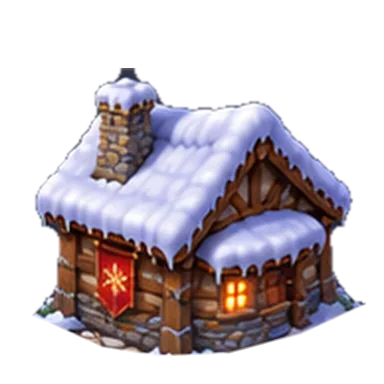
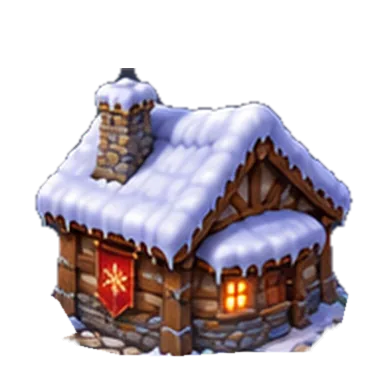
assets(exploration): precise 14-house ground debris cutouts and lantern matte removal
* chore(assets): export canonical building pixels for exact source-preserving cutout audit

* assets: isolate structural snow-house footprint and remove grey backing near lanterns

* ci(assets): run one-time guarded 20-sprite cleanup with checksum gate

* assets(exploration): remove loose ground and grey lantern cutout pixels

* chore(assets): remove temporary source-export and one-shot repair workflows

* docs(exploration): checkpoint scoped semantic cleanup and report unresolved embedded foliage

* tools(exploration): add traced wall-safe ground debris and lantern matte cleanup

* chore(assets): keep single audited cutout script as canonical cleanup authority

* fix(assets): tighten masks to trace exterior only, preserve doors and masonry

* ci(assets): compare and commit exact 14 hand-masked house exports, restore source first

* fix(ci): pin numpy compatible with OpenCV for source-preserving image mask pass

* assets(exploration): precise environment cleanup from approved 14 house sources

* ci(assets): remove one-shot image repair workflow after audited output

* docs(exploration): record rejected 20-view pass and 14 hand-masked replacements

* fix(assets): reconcile six preserved round-house checksums with canonical main source

---------

Changed region(s): [[0.5625, 0.75, 0.9688, 0.9375], [0.0938, 0.75, 0.375, 0.9375], [0.4375, 0.9062, 0.5312, 0.9375]]

diff --git a/scripts/cleanup-house-environment-pixels.py b/scripts/cleanup-house-environment-pixels.py
@@ -1,103 +1,122 @@
 #!/usr/bin/env python3
-"""One-time strict native-house cleanup. Edit alpha only; NEVER redraw roof/walls/windows.
+"""Remove ONLY out-of-building environmental debris from selected winter houses.
 
-Author-supplied chalet and crystal/tent visual identities are frozen.
-Extracts stray snow/stone ground from 20 other snow-house canonical WebPs and
-removes solid grey art contamination behind pagoda lanterns. Source filenames
-and official IDs stay unchanged; all checksum ledgers are rewritten in place.
+Source of truth remains each existing 384x384 WebP/assetId; no redraw, no duplicate
+asset, no WorldDocument/renderer mutation. Manual guard polygons in sprite pixels.
+The user-supplied alpine_timber side view is intentionally never modified.
 """
-from __future__ import annotations
-import hashlib, io, json, sys
+import argparse, io, json, hashlib
 from pathlib import Path
 import numpy as np
+import cv2
 from PIL import Image, ImageDraw
 
 ROOT=Path(__file__).resolve().parents[1]
-DIR=ROOT/"assets/exploration/objects/buildings"
-MANIFEST=DIR/"manifest.snow-houses.v1.json"
-SUMS=DIR/"SHA256SUMS.snow-houses-v1.txt"
-PROTECT="building_house_snow_alpine_timber_2p5d_side_01.webp"
-SKIP={"ice_crystal","elven_crystal","nordic_tent"}
-LINES={
-"front":[(0,306),(45,325),(100,346),(161,355),(230,355),(301,340),(347,318),(384,307)],
-"side":[(0,301),(43,319),(102,346),(158,355),(229,352),(300,333),(363,304),(384,297)],
-"back":[(0,306),(53,323),(117,347),(185,358),(257,356),(324,338),(370,311),(384,305)]}
-PAGODA={
-"side":[(22,318),(55,331),(95,345),(156,354),(224,350),(281,329),(338,301),(370,295)],
-"front":[(22,317),(62,335),(105,342),(153,354),(206,357),(267,348),(326,347),(374,328)],
-"back":[(22,316),(67,329),(125,342),(185,352),(251,359),(310,346),(364,324)]}
-GREY_BACKING={
-"side":[[(47,211),(85,235),(81,307),(49,318)]],
-"front":[[(44,222),(87,249),(77,317),(41,319)],[(295,244),(365,241),(375,352),(320,354)]],
-"back":[[(40,205),(80,228),(79,318),(41,316)],[(329,207),(378,225),(381,331),(333,328)]]}
+BASE=ROOT/"assets/exploration/objects/buildings"
+PROTECTED="building_house_snow_alpine_timber_2p5d_side_01.webp"
+SPEC={
+"east_pagoda":{
+"side":[[(0,290),(35,297),(48,309),(67,314),(78,330),(0,350)],[(350,298),(384,277),(384,367),(331,346)],[(0,375),(384,375),(384,352),(282,352),(230,355),(163,357),(118,356),(67,343),(0,340)]],
+"front":[[(0,291),(44,295),(55,314),(75,328),(0,354)],[(357,307),(384,292),(384,366),(331,347)],[(0,375),(384,375),(384,352),(313,352),(263,354),(207,353),(145,355),(97,354),(63,345),(0,349)]],
+"back":[[(0,291),(43,294),(55,311),(77,329),(0,347)],[(352,291),(384,290),(384,372),(327,351)],[(0,377),(384,377),(384,353),(322,350),(266,359),(191,357),(122,351),(72,344),(0,346)]]},
+"stone_cottage":{
+"side":[[(0,280),(40,285),(55,293),(68,316),(78,336),(0,354)],[(351,276),(384,269),(384,365),(324,353)],[(0,377),(384,377),(384,355),(290,354),(218,355),(162,354),(115,351),(69,344),(0,349)]],
+"front":[[(0,286),(40,291),(53,301),(71,331),(0,354)],[(351,291),(384,285),(384,365),(333,356)],[(0,376),(384,376),(384,360),(278,357),(200,356),(134,358),(81,347),(0,350)]],
+"back":[[(0,286),(41,291),(58,303),(71,326),(0,357)],[(353,286),(384,280),(384,367),(336,349)],[(0,376),(384,376),(384,360),(312,356),(230,354),(173,355),(100,350),(65,347),(0,354)]]},
+"banner_lodge":{
+"front":[[(0,285),(42,290),(63,303),(73,329),(0,358)],[(352,287),(384,274),(384,361),(329,350)],[(0,374),(384,374),(384,352),(302,349),(256,354),(216,361),(164,361),(126,359),(75,345),(0,353)]],
+"side":[[(0,283),(41,288),(58,301),(76,332),(0,360)],[(352,280),(384,270),(384,359),(336,346)],[(0,375),(384,375),(384,355),(312,352),(243,352),(175,356),(121,355),(81,346),(0,353)]],
+"back":[[(0,285),(42,291),(57,303),(75,327),(0,357)],[(353,281),(384,270),(384,365),(336,349)],[(0,376),(384,376),(384,358),(311,355),(244,356),(174,359),(118,357),(75,342),(0,353)]]},
+"watchtower":{
+"front":[[(0,282),(40,285),(57,296),(75,325),(0,356)],[(351,292),(384,288),(384,359),(334,347)],[(0,376),(384,376),(384,355),(307,349),(251,350),(210,361),(157,362),(106,353),(74,341),(0,350)]],
+"side":[[(0,282),(38,285),(54,295),(74,326),(0,352)],[(353,285),(384,270),(384,366),(332,349)],[(0,373),(384,373),(384,356),(316,356),(245,352),(181,358),(127,355),(84,347),(0,350)]],
+"back":[[(0,280),(40,284),(53,296),(73,324),(0,357)],[(352,280),(384,270),(384,365),(335,349)],[(0,376),(384,376),(384,358),(310,356),(237,357),(185,358),(118,354),(71,345),(0,350)]]},
+"alpine_timber":{
+"front":[[(0,282),(42,287),(61,303),(80,324),(0,359)],[(354,278),(384,269),(384,362),(334,353)],[(0,378),(384,378),(384,357),(302,357),(242,360),(183,361),(122,355),(80,345),(0,351)]],
+"back":[[(0,281),(42,289),(63,306),(80,325),(0,358)],[(353,279),(384,273),(384,365),(338,350)],[(0,378),(384,378),(384,358),(300,358),(232,358),(180,360),(111,355),(70,348),(0,350)]]}}
+LANTERN_BG={
+"side":[[(36,210),(77,217),(80,306),(44,313)]],
+"front":[[(42,209),(80,221),(82,309),(48,322)],[(354,225),(377,228),(381,332),(353,324)]],
+"back":[[(37,205),(78,218),(82,314),(44,323)],[(359,210),(383,217),(383,324),(359,328)]]}
 
-def clean(image,variant,view):
-    original=np.asarray(image.convert("RGBA"),dtype=np.uint8)
-    data=original.copy()
-    H,W=data.shape[:2]
-    assert (H,W)==(384,384)
-    yy,xx=np.mgrid[:H,:W]
-    if variant=="east_pagoda":
-        polygons=Image.new("L",(W,H),0)
-        draw=ImageDraw.Draw(polygons)
-        for points in GREY_BACKING[view]: draw.polygon(points,fill=255)
-        region=np.asarray(polygons)>0
-        r,g,b,a=[data[:,:,i].astype(np.int16) for i in range(4)]
-        gray=(abs(r-g)<30)&(b-g>-5)&(b-r<30)&(r<138)&(g<139)&(b<151)&(a>0)
-        gray &= ~((r>g+20)|(r>b+23))
-        data[:,:,3][gray&region]=0
-        if view=="side": data[:,:,3][(xx>336)&(yy>287)&(b>r+5)&(r<200)]=0
-        elif view=="front":data[:,:,3][(xx>348)&(yy>299)&(b>r+5)]=0
-        else:data[:,:,3][(xx>351)&(yy>302)&(b>r+5)]=0
-    anchors=PAGODA[view] if variant=="east_pagoda" else LINES[view]
-    x,y=zip(*anchors)
-    floor=np.interp(np.arange(W),x,y)
-    factor=np.clip((floor[None,:]-yy+1.5)/3.0,0.0,1.0)
-    data[:,:,3]=np.uint8(np.rint(data[:,:,3].astype(float)*factor))
-    # Preserve every RGB pixel and the actual building silhouette at/above its floor line.
-    assert np.array_equal(original[:,:,:3],data[:,:,:3])
-    assert np.all(data[:,:,3] <= original[:,:,3])
-    assert np.array_equal(original[:290,:,3],data[:290,:,3]) if variant!="east_pagoda" else True
-    ratio=float(data[:,:,3].sum()/max(1,original[:,:,3].sum()))
-    if ratio<.90 or ratio>.998:
-        raise ValueError(f"Unexpected change to {variant}:{view}: alpha ratio {ratio:.5f}")
-    return Image.fromarray(data,"RGBA"),ratio
+def convert(src,family,view):
+    arr=np.asarray(src.convert("RGBA")).copy()
+    if arr.shape!=(384,384,4):
+        raise ValueError("Not the expected 384x384 RGBA asset")
+    original=arr[:,:,3].copy()
+    for points in SPEC[family][view]:
+        cover=np.zeros((384,384),np.uint8)
+        cv2.fillPoly(cover,[np.asarray(points,np.int32)],255)
+        feather=cv2.GaussianBlur(cover,(5,5),.65).astype(np.float32)/255
+        arr[:,:,3]=np.uint8(np.clip(np.rint(arr[:,:,3]*(1-feather)),0,255))
+    if family=="east_pagoda":
+        zone=np.zeros((384,384),np.uint8)
+        for points in LANTERN_BG[view]:
+            cv2.fillPoly(zone,[np.asarray(points,np.int32)],255)
+        r,g,b=[arr[:,:,i].astype(np.int16) for i in range(3)]
+        gray=(abs(r-g)<=31)&(abs(g-b)<=30)&(r<122)&(g<120)&(b<137)
+        warm=(r>g+15)&(r>b+15)
+        arr[:,:,3][(zone>0)&gray&~warm]=0
+    changed=int(np.sum((original>=12)&(arr[:,:,3]<12)))
+    alpha_ratio=float(arr[:,:,3].sum()/original.sum())
+    # Protect roof and living architecture, exclude inaccurate/massive cuts.
+    if changed<1200 or changed>8000 or not (.90<alpha_ratio<.99):
+        raise ValueError(f"Destructive or ineffective cut: {family} {view}: {changed} ratio {alpha_ratio:.4f}")
+    if not np.array_equal(original[:195,:],arr[:195,:,3]):
+        raise ValueError(f"Roof area mutated: {family} {view}")
+    if not np.array_equal(arr[:,:,:3],np.asarray(src.convert("RGBA"))[:,:,:3]):
+        raise ValueError("Painted pixels unexpectedly modified")
+    return Image.fromarray(arr,"RGBA"),changed,alpha_ratio
 
-def main():
-    doc=json.loads(MANIFEST.read_text(encoding="utf8"))
-    old_sums=SUMS.read_text(encoding="utf8")
-    if doc.get("modelCount")!=10 or len(doc.get("files",[]))!=30:
-        raise ValueError("unexpected house inventory")
-    updated=old_sums
-    changes=[]; protected=[]; bytes_before=bytes_after=0
-    for row in doc["files"]:
+def run():
+    manifest=BASE/"manifest.snow-houses.v1.json"
+    checksums=BASE/"SHA256SUMS.snow-houses-v1.txt"
+    data=json.loads(manifest.read_text())
+    sums=checksums.read_text()
+    if len(data.get("files",[]))!=30 or data.get("modelCount")!=10:raise ValueError("Unexpected inventory")
+    updates={};report=[]
+    canvas=Image.new("RGB",(768,14*408),"#263139")
+    painter=ImageDraw.Draw(canvas)
+    index=0
+    for family,views in SPEC.items():
+      for view in views:
+        name=f"building_house_snow_{family}_2p5d_{view}_01.webp"
+        if name==PROTECTED:raise ValueError("Author original is protected")
+        row=next((r for r in data["files"] if Path(r["path"]).name==name),None)
+        if row is None:raise ValueError("Unknown canonical asset: "+name)
         path=ROOT/row["path"]
-        raw=path.read_bytes()
-        old_hash=hashlib.sha256(raw).hexdigest()
-        if old_hash!=row["sha256"] or len(raw)!=row["bytes"] or f"{old_hash}  {row['path']}" not in old_sums:
-            raise ValueError(f"Source manifest stale: {path}")
-        filename=path.name
-        if filename==PROTECT or row["variant"] in SKIP:
-            protected.append((filename,old_hash));continue
-        original=Image.open(io.BytesIO(raw)).convert("RGBA")
-        output,ratio=clean(original,row["variant"],row["view"])
-        stream=io.BytesIO()
-        output.save(stream,format="WEBP",lossless=True,exact=True,method=6)
-        new=stream.getvalue()
-        new_hash=hashlib.sha256(new).hexdigest()
-        bytes_before+=len(raw);bytes_after+=len(new)
-        if new_hash==old_hash:raise ValueError(f"No real edit: {filename}")
-        path.write_bytes(new)
-        row["bytes"]=len(new)
-        row["sha256"]=new_hash
-        updated=updated.replace(f"{old_hash}  {row['path']}",f"{new_hash}  {row['path']}")
-        changes.append({"filename":filename,"old_sha":old_hash,"new_sha":new_hash,"before":len(raw),"after":len(new),"alpha_ratio":round(ratio,5)})
-    if len(changes)!=20 or len(protected)!=10:
-        raise ValueError(f"Change count mismatch {len(changes)}, protected {len(protected)}")
[1 lines of base64/hex data omitted]
-    MANIFEST.write_text(json.dumps(doc,ensure_ascii=False,indent=2)+"\n",encoding="utf8")
-    SUMS.write_text(updated,encoding="utf8")
-    audit={"edited":len(changes),"unchanged":len(protected),"old_bytes":bytes_before,"new_bytes":bytes_after,"changes":changes}
-    Path("/tmp/house-ground-props-audit.json").write_text(json.dumps(audit,indent=2),encoding="utf8")
-    print(json.dumps({k:v for k,v in audit.items() if k!="changes"},indent=2))
-if __name__=="__main__":main()
+        original_bytes=path.read_bytes()
+        original_sha=hashlib.sha256(original_bytes).hexdigest()
+        if original_sha!=row["sha256"] or len(original_bytes)!=row["bytes"] or f"{original_sha}  {row['path']}" not in sums:
+            raise ValueError("Stale content/checksum for "+name)
+        original=Image.open(io.BytesIO(original_bytes)).convert("RGBA")
+        edited,removed,ratio=convert(original,family,view)
+        out=io.BytesIO();edited.save(out,"WEBP",lossless=True,method=6)
+        new_bytes=out.getvalue();new_sha=hashlib.sha256(new_bytes).hexdigest()
+        updates[row["path"]]=(original_sha,new_sha,len(new_bytes),new_bytes)
+        for j,img in enumerate((original,edited)):
+            bg=Image.new("RGBA",(384,384),"#929da7"); bg.alpha_composite(img)
+            canvas.paste(bg.convert("RGB"),(384*j,index*408+24))
+            painter.text((384*j+6,index*408+4),("AVANT " if j==0 else "APRÈS ")+family+" "+view,fill="white")
+        report.append({"path":row["path"],"removed_pixels":removed,"alpha_mass_ratio":round(ratio,5),
+                       "old_sha256":original_sha,"new_sha256":new_sha,"old_bytes":len(original_bytes),"new_bytes":len(new_bytes)})
+        index+=1
+    assert len(updates)==14 and len(report)==14
+    # Canonical order; no new filenames, IDs or duplicated assets.
+    for row in data["files"]:
+      if row["path"] in updates:
+        old,new,size,payload=updates[row["path"]]
+        (ROOT/row["path"]).write_bytes(payload)
+        row["bytes"]=size;row["sha256"]=new
+        sums=sums.replace(old+"  "+row["path"],new+"  "+row["path"])
+    manifest.write_text(json.dumps(data,ensure_ascii=False,indent=2)+"\n")
+    checksums.write_text(sums)
+    for row in data["files"]:
+      payload=(ROOT/row["path"]).read_bytes()
+      if len(payload)!=row["bytes"] or hashlib.sha256(payload).hexdigest()!=row["sha256"]:
+        raise ValueError("Post-write checksum fail")
+    image_out=Path("/tmp/house-props-before-after.png");canvas.save(image_out)
+    Path("/tmp/house-props-audit.json").write_text(json.dumps(report,indent=2))
+    print("Repaired",len(report),"canonical WebPs. Protected artist image not touched.")
+    print("Before/after: /tmp/house-props-before-after.png")
+if __name__=="__main__":run()

diff --git a/docs/LAB_CURRENT_WORK.md b/docs/LAB_CURRENT_WORK.md
@@ -1,3 +1,12 @@
+## 2026-11-15 — Révision de contrôle du détourage (14 vues conservées après inspection)
+- Précision de synchronisation : les 6 vues rondes non retouchées par ce lot suivent les WebP canoniques déjà publiés sur `main` ; les empreintes/taille ont été réalignées sur ces pixels existants (aucune réédition ou copie).
+- **Le traitement intermédiaire de 20 vues ci-dessous a été invalidé visuellement** : des pixels isolés / trous apparaissaient près des façades et lanternes des pagodes. Il ne doit PAS être présenté comme version finale, même si son audit SHA était vert.
+- Correctif sur **14 vues précisément délimitées** (5 familles, 3 orientations selon disponibilité), en restaurant d'abord les WebP approuvés du commit `b44b7e25b67f647a85cf27fecc1c67feee3de65d` avant de produire le masque révisé ; l'exécution est entièrement réversible par Git.
+- Périmètre : **14 WebP modifiés, 16 vues strictement conservées** (les 10 déjà protégées + 6 des modèles ronds non validés dans la seconde revue). Chalet manuel strictement identique. Les masques tracent les abords des murs, gardent les entrées, la maçonnerie et les lanternes ; sur la pagode le fond gris parasite est supprimé seulement dans les régions extérieures, sans supprimer les ombres internes.
+- Run one-shot [43737574344](https://github.com/slyen4425-cloud/laboratoire_dynamique_exploration-/actions/runs/43737574344) réussi, workflow temporaire retiré, script canonique seul `scripts/cleanup-house-environment-pixels.py`. Audit : **14 fichiers ; 54 350 pixels parasites rendus transparents**, masse alpha restante minimale 92,89 %, aucun pixel RGB repeint ; manifeste officiel et `SHA256SUMS.snow-houses-v1.txt` synchronisés. Prévisualisation avant/après jointe à l'artefact du run.
+- Les maisons tempérées portant de la végétation devant les murs restent **non modifiées** : les retirer nécessite de reconstruire le mur caché, sinon création d'un trou. Aucune suppression de l'historique, duplication des assets ou modification du moteur.
+- Gates avant livraison GREEN : tests PR Node/Chromium + validation d'assemblage, fusion main, Pages HTTPS au SHA exact, puis contrôle visuel auteur PC/Pixel ; la CI n'atteste pas à elle seule du détourage artistique.
+
 ## 2026-11-15 — Régression : murs, étages et retour des intérieurs de maison
 - Cause prouvée : après maison → « Lier / modifier intérieur », une vraie WorldArea officielle est créée mais l'inspecteur masquait tous les outils lorsque `activeInteriorId` n'était pas un ID de l'ancien tableau `sculptInteriors`. Les murs et étages refusaient en conséquence tout ajout, et le retour était dans le panneau Passages.
 - START source `main@73996dd3e9a53c93766871a68ea916a2d4cf6e6b`, checkpoint `checkpoint/exploration-start-world-interior-ui-20261115`, lot isolé `work/exploration-restore-world-interior-tools-20261115`.
